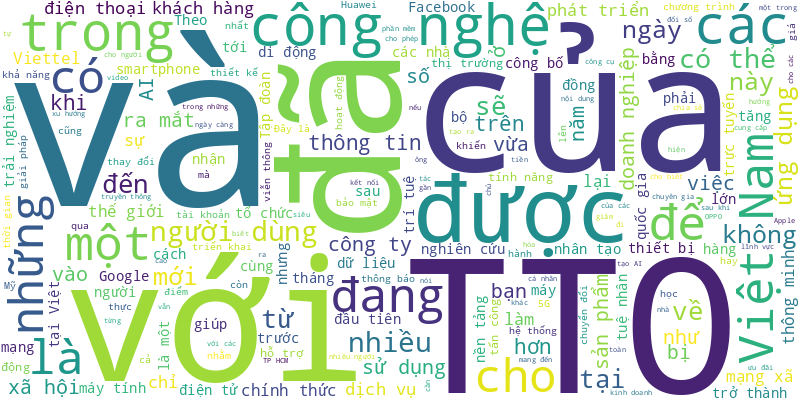
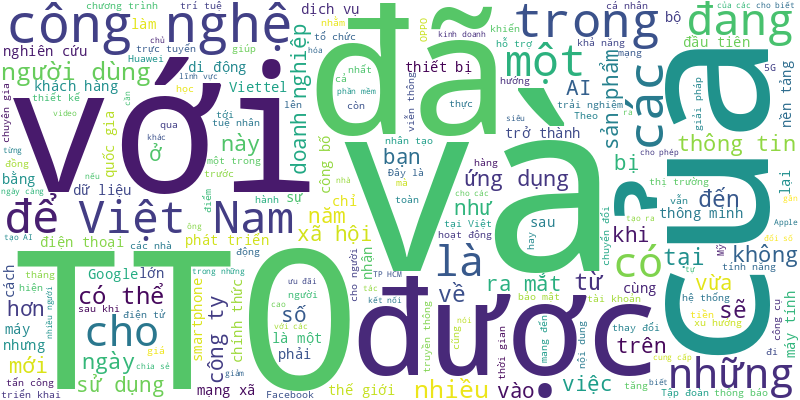
🍀 = 100%

diff --git a/README.md b/README.md
@@ -1,6 +1,22 @@
 # Tuoi Tre RSS 
 
 ## Giáo dục 
+- Tổng thống Trump cho rằng việc Đại học Harvard nhận sinh viên quốc tế là "mối đe dọa đối với nước Mỹ", và đã ký sắc lệnh siết chặt việc cấp visa cho du học sinh muốn theo học tại trường này.
+- Nhiều thí sinh chủ động lựa chọn những hướng đi khác trước kỳ thi tuyển sinh lớp 10 tại TP.HCM, nhằm giảm bớt áp lực cũng như tìm kiếm những cơ hội mới phù hợp với bản thân.
+- 2025 là năm đầu tiên học sinh lớp 9 sẽ thi tuyển sinh lớp 10 theo Chương trình giáo dục phổ thông 2018. Vì vậy cấu trúc và nội dung đề thi cũng sẽ thay đổi.
+- Năm nay, Học viện Báo chí và tuyên truyền, Trường đại học Luật (Đại học Quốc gia Hà Nội) chính thức bỏ xét khối C truyền thống (văn, sử, địa); Trường đại học Khoa học xã hội và Nhân văn giảm xét tổ hợp văn - sử - địa ở 17 ngành.
+- Trường đại học Quản lý và Công nghệ TP.HCM (UMT) sẽ đến với khán giả chương trình Khám phá trường học của báo Tuổi Trẻ lúc 19h ngày 5-6.
+- Sở Giáo dục và Đào tạo TP.HCM vừa công bố kế hoạch tổ chức kỳ thi Kỹ năng nghề cấp thành phố năm 2025, dự kiến diễn ra vào tháng 8 với 27 nghề được tổ chức thi.
+- Chương trình thạc sĩ Quản trị kinh doanh (MBA) do Đại học Lincoln (Hoa Kỳ) hợp tác với Trường đại học Công nghệ TP.HCM (HUTECH) triển khai là lựa chọn của nhiều người để nắm bắt cơ hội.
+- Chiều 4-6, đoàn 10 sinh viên xuất sắc nhất và thầy cô của khoa truyền thông sáng tạo Trường đại học Nguyễn Tất Thành đã đến thăm, tìm hiểu hoạt động và sự phát triển của văn phòng đại diện báo Tuổi Trẻ tại Hà Nội.
+- Đến 17h chiều nay 4-6, hầu hết các trường có chương trình đặc thù trên địa bàn TP.HCM sẽ công bố kết quả tuyển sinh lớp 1, lớp 6.
+- Một trường cao đẳng ở Trung Quốc bị chỉ trích sau khi phạt một giáo viên vì bắt đầu lớp học trễ một phút và một giáo viên khác vì kết thúc sớm hai phút, làm dấy lên tranh cãi về sự nhân văn trong môi trường giáo dục.
+- Khi đang lưu thông trên đường, một thầy giáo ở huyện Duy Xuyên, Quảng Nam đã bị người đàn ông lao vào hành hung, dùng gạch đập vào mũ bảo hiểm trên đầu, đấm đá túi bụi vào mặt.
+- Tối 3-6, trên mạng xã hội lan truyền thông tin sinh viên Đại học Bách khoa Hà Nội phản ánh bị đau bụng, nôn mửa sau bữa cơm quân sự buổi trưa 29-5, nghi ngộ độc thực phẩm.
+- Sau khi kết thúc môn thi ngữ văn vào lớp 10 sáng nay 4-6, nhiều thí sinh tại Bình Định chia sẻ đề thi năm nay rất mở, yêu cầu liên hệ đời sống cao, gần gũi nhưng khó đạt điểm tuyệt đối.
+- Sáng 4-6, sau mưa lớn, nhiều tuyến đường ở thành phố Bắc Giang ngập sâu, lực lượng cảnh sát giao thông đã dùng xe đặc chủng đưa nhiều thí sinh đến các điểm thi tuyển sinh vào lớp 10.
+- Một nam sinh đạp xe đi thi vào lớp 10 nhưng giữa đường xe hư. Các chiến sĩ cảnh sát giao thông nhìn thấy đã hỏi thăm và lấy xe chở em đi thi kịp giờ.
+- Trí tuệ nhân tạo đang làm thay đổi cách học tiếng Anh của sinh viên, với nhiều công cụ AI hỗ trợ cải thiện kỹ năng ngôn ngữ một cách hiệu quả và tiết kiệm.
 - Kỳ thi tuyển sinh vào lớp 10 công lập được xem là kỳ thi quan trọng đầu đời của những cô cậu học sinh 15 tuổi. Làm sao để tránh được những sự cố trong kỳ thi này?
 - Trong kỳ thi vào lớp 10 ở Hà Nội (từ ngày 6 đến 9-6), thời tiết thủ đô phổ biến ban ngày nắng, có hôm nắng nóng với nhiệt độ cao nhất 35 độ C.
 - Năm nay, Trường đại học Công nghệ, Đại học Quốc gia Hà Nội xét tuyển thêm 2 tổ hợp mới có môn tin học và dự kiến là năm cuối cùng tuyển sinh bằng tổ hợp D01 (toán, văn, tiếng Anh).
@@ -987,29 +1003,73 @@ Trường đại học Văn Lang được QS xếp hạng top 51-100 thế giớ
 - Sở Giáo dục và Đào tạo Hà Tĩnh đề nghị UBND tỉnh Hà Tĩnh cấp hơn 21,5 tỉ đồng để tổ chức ôn thi cho học sinh lớp 12.
 - Cháu bé được bố mẹ đưa đến gửi ở cơ sở giữ trẻ tại TP Hà Tĩnh, bất ngờ chạy ra đường, xe không thấy nên tông trúng và cuốn bé vào gầm xe.
 - Từ hôm nay 11-3, sinh viên ngành quan hệ công chúng Trường đại học Kinh tế - Tài chính TP.HCM (UEF) bắt đầu học về talkshow tại báo Tuổi Trẻ.
-- Có con sắp thi vào lớp 10, nhiều bố mẹ thú nhận 'mới chỉ biết láng máng' về chương trình học THPT hiện tại'.
-- Phó thủ tướng Lê Thành Long cơ bản thống nhất với đề xuất của Bộ Giáo dục và Đào tạo về dự thảo.
-- Đó là một trong những nội dung đáng chú ý trong dự thảo phương án tuyển sinh lớp 10 năm học 2025-2026 của TP.HCM.
-- Nhiều chính sách học bổng mới dành cho tân sinh viên với tổng giá trị lên đến 46 tỉ đồng được HUFLIT áp dụng trong kỳ tuyển sinh 2025.
-- Tỉnh Vĩnh Phúc ban hành quyết định thành lập 3 trường trung học công lập, trong đó có 1 trường thuộc Trường đại học Sư phạm Hà Nội 2.
-- Giáo viên đứng lớp với 40-50 đứa trẻ có cá tính khác biệt, thử hỏi những cái khó có dễ gì đong đếm được?
-- Năm 2025, nhiều trường đại học tổ chức kỳ thi đánh giá đầu vào đại học trên máy tính (V-SAT) với hàng chục đợt thi sắp diễn ra.
-- Ông Dương Thanh Bình đề nghị Bộ Giáo dục và Đào tạo kiểm tra, đánh giá việc triển khai thực hiện quy định về dạy thêm, học thêm để điều chỉnh nếu chưa phù hợp.
-- Hai khu đất tại quận Cái Răng được thông báo đấu giá nhiều lần nhưng không được quan tâm, buộc phải đưa ra khỏi danh sách đấu giá.
-- Trượt đại học kiến trúc, Linh ôn thi và đậu năm sau. Sau đó cô du học Anh và tốt nghiệp thủ khoa, tiếp tục giành học bổng thạc sĩ MIT (Mỹ).
-- Quy chế tuyển sinh đại học năm 2025 là chủ đề nóng được nhiều thí sinh và giáo viên quan tâm, đặt nhiều câu hỏi cho chuyên gia trong ngày hội tư vấn - tuyển sinh hướng nghiệp tại Cần Thơ ngày 9-3.
-- Một lớp học đặc biệt đã được tổ chức ngày 9-3 ở Hà Nội, thu hút hàng trăm học sinh và sinh viên mong muốn được "học nói" để thể hiện suy nghĩ một cách lành mạnh, phát triển bản thân.
-- Sở Tài chính Khánh Hòa vừa có ý kiến, nêu lý do không trình UBND bổ sung kinh phí để chi trả tiền hỗ trợ học tập hằng tháng suốt 3-4 năm qua.
-- Thiết bị này có thể cảnh báo tức thì các tuyến đường đang ngập, có 'ổ gà' nguy hiểm hay không... giúp giảm rủi ro cho người đi đường.
-- Tính đến Chủ nhật đỏ tại TP.HCM ngày 9-3, thầy Trương Thanh Tùng, giảng viên Trường đại học Văn Hiến đã hiến máu lần thứ 34 và khẳng định không dừng ở đó.
-- Từ năm 2025, các trường khối cao đẳng sẽ được đưa về quản lý chung của Bộ GD-ĐT, xét tuyển ra sao? Học ngành ngôn ngữ có 'lép vế' khi AI phát triển? Làm gì để tăng cơ hội đậu ngành y?
 ![Edu](Edu.png)
 ## Thời Sự 
+- Từ sáng nay 5-6, người dân TP.HCM bắt đầu có thể tham quan tự do các hoạt động trải nghiệm tại sự kiện 'Vinh quang Công an nhân dân Việt Nam' tại đại lộ Lê Lợi và phố đi bộ Nguyễn Huệ.
+- Những ngày qua, nhiều người dân vẫn còn thắc mắc những ai được miễn phí vé xe buýt ở TP.HCM, thủ tục cụ thể ra sao?
+- Tin tức đáng chú ý: Hôm nay Ủy ban Thường vụ Quốc hội xem xét đề án sáp nhập tỉnh; Dự kiến hoàn thành đường vành đai 4 TP.HCM cuối năm 2028; TP.HCM tăng cường giám sát dự án nhà ở...
+- Thực tế Tuổi Trẻ ghi nhận sau thời điểm quy định bắt buộc hộ kinh doanh có doanh thu từ 1 tỉ đồng/năm phải sử dụng hóa đơn điện tử.
+- GS Nguyễn Anh Trí đã bày tỏ mong muốn hiến tặng Công viên Di sản các nhà khoa học rộng hàng chục héc ta, với cả triệu tư liệu được thu thập cho đất nước.
+- Hôm nay 5-6, gió mùa tây nam ở Nam Bộ mạnh lên làm mưa gia tăng. Bắc Bộ mưa rào, Trung Bộ nắng nóng.
+- Rạng sáng 5-6, Thủ tướng Phạm Minh Chính và Phu nhân dẫn đầu đoàn đại biểu cấp cao Việt Nam rời Hà Nội, hướng đến điểm dừng chân đầu tiên là Estonia trong chuyến công tác tới ba nước châu Âu.
+- Tối 4-6, tại ga Sài Gòn (TP.HCM), gần 800 cán bộ, chiến sĩ của Quân khu 7, 250 chiến sĩ thuộc Quân đoàn 34 đã lên tàu ra Hà Nội tập luyện diễu binh, diễu hành kỷ niệm 80 năm Cách mạng Tháng Tám và Quốc khánh 2-9.
+- Làm việc với Ban Thường vụ Tỉnh ủy Kiên Giang và Thường trực Tỉnh ủy An Giang, Tổng Bí thư Tô Lâm nhấn mạnh hai tỉnh cần phối hợp chặt chẽ trong lãnh đạo, điều hành với tinh thần "một tỉnh - một tầm nhìn - một hành động - một niềm tin".
+- Chủ tịch UBND tỉnh Khánh Hòa nói lãnh đạo, cán bộ cấp xã mới sẽ là người đi vào lịch sử xây dựng, hình thành phát triển tỉnh Khánh Hòa mới.
+- Hiểu rõ những nguyên nhân dẫn tới già hóa dân số là yếu tố đầu tiên để xây dựng chính sách phù hợp.
+- Chủ tịch Trần Bá Dương khẳng định minh bạch tài chính, cam kết phát triển dài hạn, giữ nguyên chủ trương chưa niêm yết cổ phiếu và chính thức xác nhận đề xuất đầu tư dự án đường sắt tốc độ cao Bắc - Nam.
+- Đại tá Nguyễn Hồng Nhật, giám đốc Công an tỉnh Kon Tum, nghỉ công tác hưởng chế độ hưu trí. Đại tá Trần Thị Thu Phước, phó giám đốc, được giao phụ trách Công an tỉnh.
+- Theo Cục Hải quan, từ giữa tháng 12-2024 đến giữa tháng 5 năm nay, lực lượng hải quan đã chủ trì, phối hợp với các lực lượng chuyên trách phòng, chống tội phạm về ma túy thu giữ khoảng 1,9 tấn ma túy các loại.
+- Dự án trục Đông Tây (đường Võ Văn Kiệt) nối từ quốc lộ 1 đến tỉnh Long An có tổng chiều dài 14,6km.
+- Thường trực Ban Bí thư Trần Cẩm Tú yêu cầu trong phương án nhân sự thành phố Đà Nẵng mới sau hợp nhất Đà Nẵng và Quảng Nam.
+- Cổng dịch vụ công quốc gia sẽ chuyển hồ sơ đến trung tâm phục vụ hành chính công các cấp để tiếp nhận giải quyết thủ tục hành chính cho người dân, doanh nghiệp.
+- Người 'tố' Công ty C.P. nói mình chỉ nói lên sự thật, không phải mong được hỗ trợ và càng không phải vì cho thôi việc nên 'trả đũa'.
+- Mấy hôm nay một số người chia sẻ có những hàng quán trước giờ nhận chuyển khoản nay không cho chuyển khoản, buộc phải trả tiền mặt.
+- Sở Xây dựng TP.HCM vừa có tờ trình kiến nghị UBND TP.HCM chỉ đạo UBND TP Thủ Đức khẩn trương tổ chức cưỡng chế bàn giao quỹ bảo trì chung cư Saigon Gateway.
+- Các bác sĩ Bệnh viện Nhân dân 115 (TP.HCM) vừa điều trị thành công cho nam bệnh nhân bị tràn mủ màng ngoài tim, đây là ca bệnh hiếm gặp với tỉ lệ 1/18.000 ca.
+- UBND TP.HCM vừa có văn bản yêu cầu thủ trưởng sở ngành, quận huyện và TP Thủ Đức thực hiện phòng chống lãng phí trong đầu tư xây dựng, quản lý nhà nước thuộc tài sản công.
+- Ban Thường vụ Tỉnh ủy Quảng Nam quyết định tăng cường 34 cán bộ, công chức, viên chức cấp tỉnh về cấp xã (mới) giữ các chức vụ bí thư, phó bí thư, chủ tịch UBND. Trong đó có 5 tỉnh ủy viên.
+- Các thông tin kết hôn, ly hôn, tình trạng độc thân sẽ được cập nhật chính xác, kịp thời, đồng bộ trên hệ thống thông tin quốc gia.
+- Theo Ủy ban An toàn giao thông quốc gia, hành vi ném đất, đá, chất bẩn lên các đoàn tàu hỏa có chiều hướng tăng và diễn biến phức tạp.
+- Một tài xế đã bị nhân viên trạm thu phí mắng chửi và tát vào mặt, vì tài khoản thu phí tự động không đủ để qua trạm.
+- Nhân Ngày truyền thống Người cao tuổi Việt Nam, Thiếu tướng, Anh hùng Lực lượng vũ trang Mai Hoàng, phó giám đốc Công an TP.HCM, dẫn đầu đoàn công tác thăm và chúc thọ các cụ cao tuổi tiêu biểu tròn 90 tuổi tại TP Thủ Đức.
+- Những người nhập viện có triệu chứng ói, mửa, đau quặn bụng, sau khi ăn buffet ốc tại một quán ăn ở phường 7, TP Tuy Hòa.
+- Tới lịch hẹn trả kết quả làm thủ tục hành chính, người dân đến nơi thì lại 'chưa có kết quả', mệt mỏi và bức xúc vì tốn thời gian, công sức.
+- Dự án cải tạo, nâng cấp quốc lộ 28B nối Bình Thuận với Lâm Đồng nguy cơ lỗi hẹn trong năm 2025 khi chậm giao mặt bằng, mưa gió bất lợi, nhà thầu làm cầm chừng...
+- Hàng ngàn người dân tại TP.HCM tập trung ở trục đường Lê Lợi, quận 1 đã mãn nhãn với màn trình diễn của lực lượng cảnh vệ.
+- Theo thống kê thực hiện cao điểm truy quét hàng giả từ 15-5, cơ quan chức năng đã khởi tố 36 vụ, khởi tố 119 bị can liên quan hàng giả, buôn lậu và các tội danh khác tại 24 địa phương.
+- Mỗi xã, phường ở Cần Thơ tạm thời có 32 biên chế, không bao gồm khối đảng, đoàn thể và biên chế của ban chỉ huy quân sự xã.
+- 40 ban trù bị xã, phường mới sẽ đảm bảo các công tác thông suốt, an toàn, chuyển giao nhiệm vụ về các xã, phường mới từ ngày 1-7-2025.
+- Thứ trưởng Bộ Xây dựng cho biết cần đánh giá tác động khi bỏ giấy phép xây dựng, để có tổng kết đánh giá từ đó có lộ trình sửa đổi, cắt giảm.
+- Chủ tịch UBND TP.HCM yêu cầu Ban Giao thông phải kiên quyết chế tài theo hợp đồng đối với các nhà thầu yếu kém, đồng thời đẩy mạnh thi công để bù đắp tiến độ bị chậm trễ ở đường vành đai 3 TP.HCM.
+- Ông Y Thanh Hà Niê Kđăm được giao điều hành toàn bộ quá trình hợp nhất Lâm Đồng, Bình Thuận, Đắk Nông - hình thành tỉnh mới lớn nhất Việt Nam với diện tích hơn 24.000km².
+- Ngày 4-6, trao đổi với Tuổi Trẻ Online, lãnh đạo Chi cục Chăn nuôi, Thú y và Thủy sản tỉnh Bình Dương xác nhận tiến hành kiểm tra đột xuất các địa điểm kinh doanh của Công ty C.P Việt Nam trong địa bàn tỉnh.
+- Khi đang lưu thông trên đường, một thầy giáo ở huyện Duy Xuyên, Quảng Nam đã bị người đàn ông lao vào hành hung, dùng gạch đập vào mũ bảo hiểm trên đầu, đấm đá túi bụi vào mặt.
+- Một trận dông lốc đầu mùa mưa tại huyện U Minh, tỉnh Cà Mau đã làm sập và tốc mái 18 căn nhà, và chìm 2 tàu cá, một người được cứu vớt, một người mất tích.
+- Trong quá trình hồ Kẻ Gỗ điều tiết nước, một lượng cá lớn đã bị cuốn vào tua bin nhà máy thủy điện và bị chặt đứt ngang thân rồi trôi theo dòng nước về phía hạ du.
+- Ngày 4-6, thông tin từ cơ quan chức năng TP Cần Thơ cho biết đang điều tra, làm rõ vụ tai nạn giao thông khiến 2 người Ấn Độ thương vong.
+- Chuyến đi của Thủ tướng Phạm Minh Chính nhằm truyền tải thông điệp về một Việt Nam trách nhiệm với đại dương, đồng thời củng cố và mở ra giai đoạn phát triển mới, thực chất hơn nữa với ba nước.
+- Tại dự Luật Thuế tiêu thụ đặc biệt sửa đổi đưa ra phương án mới không thu thuế với điều hòa có công suất từ 24.000 BTU trở xuống và loại có công suất trên 90.000 BTU.
+- Ngày 4-6, Tòa án nhân dân tỉnh Kiên Giang mở phiên xét xử sơ thẩm và tuyên phạt Cao Xuân Hoàng (sinh năm 1988, trú huyện Diễn Châu, tỉnh Nghệ An) 17 năm tù về tội giết người.
+- Công an Hà Nội cho biết đã liên tiếp nhận được 2 tin báo cháy tại chung cư HH4A Linh Đàm (quận Hoàng Mai) và chung cư Eurowindow (huyện Đông Anh) vào sáng 4-6.
+- Ông Bùi Hoài Sơn, đại biểu hoạt động chuyên trách của Ủy ban Văn hóa và Xã hội, nêu rõ việc Quốc hội xem xét sửa Luật Quảng cáo, trong đó đưa ra các quy định siết hoạt động quảng cáo trên mạng xã hội là động thái rất cần thiết, kịp thời.
+- Sáng 4-6, đoàn đại biểu TP.HCM do Chủ tịch UBND TP.HCM Nguyễn Văn Được làm trưởng đoàn đã đến thăm, mừng thọ người cao tuổi tiêu biểu tròn 90 tuổi tại quận Tân Bình, nhân kỷ niệm Ngày Người cao tuổi Việt Nam (6-6).
+- Đôi vợ chồng nghèo bật khóc khi nhận lại hơn 20 triệu đồng đánh rơi ở Bệnh viện Đà Nẵng. Số tiền ấy họ được bà con lối xóm cho và tích góp bấy lâu.
+- Đây là cách hiệu quả giúp giảm kẹt xe cho nút giao An Phú (TP Thủ Đức).
+- Sau vụ ngai vàng triều Nguyễn khách tham quan bẻ gãy, Bảo tàng Cổ vật cung đình Huế đã tăng cường thêm lực lượng công an, kính cường lực bảo vệ tại khu vực trưng bày cổ vật, bảo vật quốc gia.
+- Trong lúc lực lượng chức năng làm nhiệm vụ giải quyết tai nạn, xe tải bất ngờ đâm vào phía sau ô tô CSGT khiến thượng úy Phan Văn Anh bị thương.
+- Các khối mây dông từ biển mở rộng về đất liền, dự báo thời tiết TP.HCM có mưa nhiều nơi từ đầu giờ chiều nay.
+- Bộ trưởng Nguyễn Văn Hùng nêu rõ việc đại biểu Quốc hội mặc áo có thương hiệu lên hội trường không phải hoạt động quảng cáo.
+- Ban Chỉ đạo phát triển hệ thống mạng lưới đường sắt đô thị TP.HCM vừa ban hành thông báo số 1 sau phiên họp đầu tiên.
+- Với các đề xuất, kiến nghị của các địa phương, doanh nghiệp, các bộ, ngành phải giải quyết và trả lời rõ ràng, không trả lời chung chung.
+- Theo quy định mới, Ủy ban Kiểm tra Trung ương có từ 23 - 25 ủy viên (có 2 - 3 ủy viên kiêm nhiệm), trong đó không quá 1/3 là ủy viên Trung ương Đảng.
+- Một vụ tai nạn xe khách va chạm với xe tải xảy ra tại tuyến đường tránh Huế khiến 1 người chết, 5 người bị thương.
+- Bộ Nông nghiệp và Môi trường yêu cầu xác minh và làm rõ việc cán bộ thú y đóng dấu kiểm dịch sai quy định đối với heo bệnh và xử lý trách nhiệm theo quy định.
 - 30 năm đòi đất, đã có bản án phúc thẩm nhưng quận Bình Tân vẫn không trả, hộ dân lại vất vả đi kiện tiếp.
 - Chủ nhiệm Ủy ban Công tác đại biểu Nguyễn Thanh Hải cũng cho biết mình từng mua táo đắt tiền ở cửa hàng song để mấy tháng không hỏng, ruồi nhặng không muốn bâu vào.
 - Trận mưa lớn vào rạng sáng 4-6 khiến nhiều tuyến đường ở trung tâm thành phố Bắc Giang ngập nặng, nhiều người dân phải lội nước, tìm đường vòng để kịp giờ đi làm.
 - Tại dự thảo nghị định quy định về xử lý kỷ luật cán bộ, công chức, viên chức, Bộ Nội vụ đã đề xuất bổ sung thêm các trường hợp được miễn trách nhiệm kỷ luật.
 - Bộ Nông nghiệp và Môi trường đã có công văn đề nghị Bộ Công an điều tra và xử lý thông tin lan truyền trên mạng xã hội về việc tố cáo Công ty cổ phần chăn nuôi C.P Việt Nam bán thịt heo bệnh.
+- Người dân mua nhà ở xã hội tòa T3, T4 của Công ty Đông Á bức xúc khi đặt tiền mua nhà ở xã hội hơn 2 năm nhưng đến nay vẫn chưa được nhận nhà, dù họ đã giao tiền hơn 70% cho chủ đầu tư.
 - Khởi công từ tháng 7-2023, dự án đường nối cao tốc Pháp Vân - Cầu Giẽ với vành đai 3 đến nay vẫn 'giậm chân tại chỗ'.
 - Công an tạm giữ người đàn ông dùng búa đập phá cửa kính tại 3 trụ ATM ngân hàng ở TP Tam Kỳ, Quảng Nam.
 - Đến nay số lượng dự án nhà ở xã hội đã hoàn thành, khởi công, xây dựng đạt 49% chỉ tiêu đặt ra tới năm 2025 trong đề án.
@@ -1945,68 +2005,9 @@ Trường đại học Văn Lang được QS xếp hạng top 51-100 thế giớ
 - Sở Xây dựng tỉnh Lâm Đồng đề nghị sớm cho chủ trương đầu tư hai bãi xe ở hai cửa ngõ TP Đà Lạt. Đây là yêu cầu cấp thiết nhằm giải quyết tình trạng kẹt xe, quá tải giao thông.
 - Để được cấp chứng chỉ hành nghề y mà không cần thực hành, 4 bác sĩ đã chi 200 - 300 triệu đồng mỗi người, Công an Đắk Lắk đã khởi tố 6 bị can, trong đó có 1 cựu công an.
 - Nếu thực hiện dự án theo hình thức công trình xây dựng khẩn cấp và áp dụng một số cơ chế đặc thù, sẽ cơ bản hoàn thành mở rộng cao tốc TP.HCM - Long Thành - Dầu Giây trong năm 2026.
-- Trước ngày 30-6, hơn 10 ban quản lý dự án xây dựng cấp huyện sẽ được hai ban quản lý dự án của tỉnh Quảng Ngãi tiếp nhận nguyên trạng, và tiếp tục thực hiện các công trình đang dang dở.
-- 144 thí sinh thi sát hạch giấy phép lái ô tô hạng B, C tại Tiền Giang. Đây là đợt sát hạch đầu tiên Công an Tiền Giang tổ chức, sau khi nhiệm vụ quản lý nhà nước về giấy phép lái xe được chuyển giao cho công an.
-- Sau 10 năm dừng, đoạn nối dài đường Võ Văn Kiệt (2,7km, ở TP.HCM) đang tái khởi động. Thay vì chỉ hoàn thiện phần dang dở, TP.HCM đề xuất kéo dài thêm 11,9km đến tỉnh Long An, tạo thành một trục giao thông xuyên suốt.
-- Khi chính quyền chỉ còn hai cấp thì hoạt động chính quyền số, công dân số sẽ được đẩy mạnh. Vậy cần chuẩn bị gì để từ ngày 1-7, người dân ngồi nhà vẫn làm được giấy tờ, thủ tục?
-- Đến chiều 17-5, lực lượng cứu hộ cứu nạn đã tìm thấy 5 thi thể bị vùi lấp, mất tích trong vụ sạt lở tại công trình thủy điện Tả Páo Hồ 1A (huyện Phong Thổ, Lai Châu).
-- Trên tuyến tỉnh lộ 676 vào các xã tại huyện Kon Plong (tỉnh Kon Tum), hàng ngàn cây gỗ lớn bị cưa hạ nằm la liệt dọc hai bên đường, nhường chỗ cho dự án mở đường.
-- Hội đồng tư vấn đặt tên công trình công cộng tỉnh Quảng Ngãi thống nhất đặt tên Hà Thuận cho dự án cầu Trà Khúc 3. Nay Sở Tư pháp cho rằng không có trong ngân hàng tên đường và công trình công cộng. Thế là phải bàn tiếp.
-- Các khu công nghiệp sinh thái quy mô lớn, khu công nghệ thông tin đầu tiên của Bình Dương được khởi động, mở ra định hướng mới về thu hút đầu tư trước thềm sáp nhập với TP.HCM.
-- Với đa số tán thành, Quốc hội đã biểu quyết thông qua việc đồng ý chi hàng chục ngàn tỉ đồng cho cán bộ, công chức nghỉ việc sau tinh gọn bộ máy, miễn học phí.
-- Sáng 17-5, Quốc hội thông qua nghị quyết một số cơ chế chính sách đặc biệt tạo đột phá trong xây dựng và tổ chức thi hành pháp luật, với 416/443 đại biểu có mặt tán thành.
-- Đại biểu Trần Khánh Thu đề nghị cấm quảng cáo quá mức về công dụng thực phẩm và những tuyên bố như 'chữa bệnh', 'giảm cân cấp tốc' phải bị quản lý nghiêm ngặt.
-- Phó chủ tịch UBND tỉnh Hà Tĩnh đã chỉ đạo khẩn trương làm rõ liên quan vụ xi măng để làm đường nông thôn tập kết ngoài trời bị hư hỏng.
-- Với 429/434 đại biểu có mặt tham gia biểu quyết tán thành, Quốc hội đã thông qua nghị quyết về một số cơ chế, chính sách đặc biệt phát triển kinh tế tư nhân.
-- Hơn một năm trước, tàu kéo sà lan chở đá từ đất liền ra Lý Sơn bị chìm khiến 4 người chết, 5 người mất tích. Công an đã khởi tố vụ án, nhưng đến nay tàu kéo vẫn chưa được trục vớt để điều tra.
-- Sau một tháng, Chủ tịch UBND TP.HCM Nguyễn Văn Được tiếp tục làm việc với Tập đoàn Vingroup để cập nhật tiến độ các đề án chuyển đổi xanh, tháo gỡ những khó khăn, vướng mắc trong quá trình thực hiện.
-- Huyện Bình Chánh khẳng định mặt bằng dự án quốc lộ 50 đã bàn giao đầy đủ cho Ban Giao thông TP.HCM từ tháng 4. Thế nhưng nhiều đoạn vẫn chưa xây dựng, có chỗ bị tái lấn chiếm và địa phương đã giải quyết xong.
-- Bộ Công an lập chuyên án, đấu tranh quyết liệt, xử lý nghiêm các hành vi phạm tội, làm rõ trách nhiệm  bộ, ngành, địa phương có liên quan để xảy ra sai phạm liên quan hàng giả, hàng nhái và gian lận thương mại.
-- Quốc hội tổ chức lấy ý kiến nhân dân, các ngành, các cấp về dự thảo nghị quyết sửa đổi, bổ sung một số điều của Hiến pháp nước Cộng hòa xã hội chủ nghĩa Việt Nam năm 2013 từ ngày 6-5 đến 5-6-2025.
-- Liên quan đến vụ sạt lở ở công trình thủy điện Tả Páo Hồ 1A (huyện Phong Thổ, tỉnh Lai Châu) làm 5 người mất tích, sáng 17-5 lực lượng cứu hộ, cứu nạn đã tìm thấy thi thể 3 nạn nhân.
-- Đường Tân An - Bình Hiệp dự kiến được mở mới theo hướng quốc lộ 62 hiện hữu, với quy mô khi hoàn chỉnh từ 8-10 làn xe.
-- Người dân cần phải nắm vững tên cơ quan, tỉnh thành... sáp nhập, tinh gọn để có thể chọn đúng tài khoản chính chủ, thuận lợi hơn cho giao dịch trên mạng.
-- Tại dự luật trình Quốc hội sửa 7 luật về lĩnh vực đầu tư, tài chính, ngân sách, Chính phủ đã đề xuất mở rộng chỉ định thầu, tăng các ưu đãi đầu tư, thuế.
-- Từ 1-7, Luật Bảo hiểm xã hội 2024 quy định rõ việc tạm dừng, chấm dứt hưởng lương hưu và trợ cấp bảo hiểm xã hội hằng tháng đối với 3 nhóm.
-- Việc bổ sung 44.000 tỉ đồng chi trả chế độ cho cán bộ, công chức sau tinh gọn bộ máy dự kiến được Quốc hội bàn và thông qua nghị quyết trong sáng nay 17-5.
-- Sau khi được cấp cứu, sức khỏe 4 người bị thương trong vụ sạt lở ở thủy điện Tả Páo Hồ 1A (xã Sì Lở Lầu, huyện Phong Thổ, tỉnh Lai Châu) đã tạm ổn định.
-- Ông Lương Minh Phúc - giám đốc Ban Quản lý dự án đầu tư xây dựng các công trình giao thông TP.HCM (chủ đầu tư) - đã cam kết như vậy trong cuộc trả lời phỏng vấn Tuổi Trẻ.
-- Mua bán bùa yêu là 'mỏ vàng' cho những kẻ trục lợi tâm lý yếu đuối, tổn thương tình cảm, lo âu hôn nhân.
-- Hôm nay 17-5, thời tiết Bắc Bộ mưa rào đến mưa rất to, cần chú ý lũ quét, sạt lở. Nam Bộ mưa rào chiều tối.
-- Ngày 16-5-1955, tròn 70 năm trước, biển trời Quy Nhơn xanh ngắt đưa chân con tàu cuối cùng rẽ sóng tiễn những người con thân yêu của Liên khu V lên đường tập kết ra Bắc.
-- Chủ tịch UBND xã bị tạm đình chỉ công tác 15 ngày để làm rõ trách nhiệm liên quan đến việc xi măng từ nguồn hỗ trợ xây dựng nông thôn mới bị hư hỏng.
-- Khánh Hòa bác phương án chuyển đổi các ký túc xá sinh viên thành nhà công vụ và xin bố trí 70 phòng của nhà khách T78 cho cán tại Ninh Thuận ở khi sáp nhập.
-- Tối 16-5, Thủ tướng có công điện gửi yêu cầu tập trung khắc phục hậu quả sự cố sạt lở tại công trường thi công công trình thủy điện Tả Páo Hồ 1A.
-- Bộ trưởng Bộ Giáo dục và Đào tạo Nguyễn Kim Sơn cho rằng trường học ngay ngắn, dạy học lành mạnh là phải ngăn chặn việc ép học sinh học thêm.
-- Dự thảo Luật Báo chí sửa đổi đề xuất nghiêm cấm trang thông tin điện tử tổng hợp, mạng xã hội tự sản xuất và phát tin, bài như cơ quan báo chí.
-- Dự kiến sẽ miễn thuế thu nhập doanh nghiệp cho doanh nghiệp nhỏ và vừa trong 3 năm kể từ ngày được cấp giấy chứng nhận đăng ký doanh nghiệp lần đầu.
-- Chiều 16-5 tại trụ sở Trung ương Đảng, Tổng Bí thư Tô Lâm đã tiếp Thủ tướng Thái Lan, lãnh đạo Đảng Vì nước Thái (Pheu Thai) Paetongtarn Shinawatra.
-- Có thời điểm tưởng chừng phải dừng khai thác, nhưng hơn hai thập kỷ, dự án mỏ Đại Hùng pha 3 đã trở thành công trình biểu tượng ngành dầu khí.
-- Nhiều trường công lập ở Quảng Bình phản ứng vì bị tính thuế giá trị gia tăng đến 2 lần cho mỗi bữa ăn bán trú của học sinh. Cơ quan thuế cũng đã lên tiếng.
-- PJICO - hãng bảo hiểm top đầu khối phi nhân thọ, xem việc bán bảo hiểm xe cơ giới là 'nghiệp vụ xương sống', vừa có sự thay đổi lớn trong dàn nhân sự cấp cao.
-- Bộ Chỉ huy Bộ đội biên phòng tỉnh Bình Thuận vừa tổ chức khánh thành công trình tôn tạo Điểm cơ sở A6.
-- Những ngày qua trên mạng xã hội TikTok xuất hiện đoạn video với nội dung bắt khẩn cấp một cán bộ cấp cao có liên quan đến vụ án người đàn ông dùng súng tự chế bắn người khác rồi tự sát xảy ra tại xã Vĩnh Xuân, huyện Trà Ôn.
-- Người đàn ông có biểu hiện tâm lý bất ổn, không mặc quần áo leo lên cần cẩu công trình cao hàng chục mét ở Bình Dương.
-- Đó là vấn đề Phó thủ tướng Trần Hồng Hà nêu ra tại hội nghị trực tuyến toàn quốc sơ kết công tác bảo đảm trật tự, an toàn giao thông quý 1 diễn ra chiều 16-5.
-- TP.HCM đang tính toán tổ chức thêm luồng giao thông kết nối trực tiếp vào nhà ga T3, giải quyết kẹt xe khu vực Cộng Hòa - Trường Chinh.
-- UBND huyện Hương Khê (Hà Tĩnh) đang chỉ đạo phòng ban và UBND xã Lộc Yên kiểm tra, làm rõ hàng trăm tấn xi măng bỏ ngoài trời nhiều tháng qua đã hư hỏng, gây lãng phí tài sản.
-- Tòa nhà Hàm cá mập sẽ được quận Hoàn Kiếm tiến hành phá dỡ vào tháng 5-2025 để cải tạo quảng trường Đông Kinh - Nghĩa Thục.
-- TP.HCM bước vào mùa mưa, nhiều người dân TP Thủ Đức lại thấp thỏm nỗi lo ngập. Thống kê mới nhất từ UBND TP Thủ Đức cho thấy có đến 24 điểm ngập, nhiều khu vực người dân chỉ cần nghe “có mưa” là chuẩn bị đồ che chắn.
-- Liên quan vụ suối Bà Lúa ở trung tâm TP Biên Hòa nổi bọt trắng xóa bất thường, cơ quan chức năng Đồng Nai đã vào cuộc xác minh.
-- Thiếu tướng Nguyễn Thị Xuân đề xuất tăng mức phạt tiền tối đa vi phạm giao thông đường bộ, đường sắt, đường thủy lên tới 200 triệu đồng.
-- Thay vì lên cầu vượt ra đường Trường Chinh, nhiều người đi xe máy chạy 'lố' vào đường 18E (lối vào nhà ga T3), sau đó chạy vào đường cấm rồi rẽ trái.
-- Lãnh đạo UBND tỉnh Lai Châu cho biết có 5 người mất tích, 4 người bị thương sau vụ sạt lở ở khu vực công trình thủy điện Tả Páo Hồ 1A (huyện Phong Thổ).
-- Sau khi khảo sát, kiểm tra vết sụt lún trên nút giao Ngọc Hội (TP Nha Trang, Khánh Hòa), cơ quan chức năng xác định nguyên nhân là do đổ tràn dầu mỡ.
-- Phó chủ tịch HĐND huyện Phú Tân, tỉnh Cà Mau xác nhận có tổ chức đoàn đại biểu HĐND huyện đi học hỏi kinh nghiệm về phát triển du lịch tâm linh tại Côn Đảo.
-- Ông Nguyễn Hoàng Giang - chủ tịch UBND tỉnh Quảng Ngãi - có văn bản yêu cầu tạm dừng tổ chức các đoàn đi tham quan, học tập kinh nghiệm trong giai đoạn này, tập trung lo công tác sắp xếp bộ máy.
-- Hai sinh viên tại TP.HCM đến bệnh viện cấp cứu trong tình trạng nguy kịch với nhiều vết thương do bị dao đâm khắp người.
-- Chiều 16-5, thêm một trận động đất mạnh 4 độ (độ lớn M) xảy ra ở huyện Mường Chà, tỉnh Điện Biên. Hiện Viện Các khoa học Trái đất vẫn đang tiếp tục theo dõi trận động đất này.
-- Cụ bà đến bệnh viện thăm khám, khi chụp CT thì các bác sĩ bất ngờ phát hiện có một cành tro dài 20cm nằm trong lồng ngực cụ bà suốt hai năm qua.
-- Dự án đường nối cảng tổng hợp Cà Ná và quốc lộ 1 với cao tốc Cam Lâm - Vĩnh Hảo “bí” đường dẫn vào cao tốc.
-- Ông Nguyễn Sĩ Khoa được biết đến là một "đại gia" của ngành gỗ ở Quảng Nam và Đà Nẵng.
-- Vỉa hè đường nối Trần Quốc Hoàn - Cộng Hòa (TP.HCM) từng bị lún sau khi điện lực đào lên thi công, đến 16-5 đã được khắc phục xong.
 ![New](News.png)
 ## Nhịp sống số 
+- Mỗi cú nhấp chuột đều để lại 'dấu vết số' có thể xây dựng hình ảnh bạn, hoặc phá hủy danh tiếng. Làm sao để bảo vệ quyền riêng tư và kiểm soát dấu vết số hiệu quả?
 - Một thế hệ AI mới đang dần định hình lại cách con người làm việc, quyết định và sáng tạo. Không còn đơn thuần là những 'cỗ máy phản hồi', Agentic AI là dạng trí tuệ nhân tạo có khả năng hành động độc lập.
 - Sóng 5G đang len lỏi trong cuộc sống hằng ngày của chúng ta. Nhưng liệu thứ kết nối siêu tốc này có mang theo rủi ro vô hình cho sức khỏe con người?
 - Filter ảo trên mạng xã hội đang dần trở thành chiếc mặt nạ vô hình, tạo áp lực lên hình ảnh bản thân và tâm lý của giới trẻ. Giới trẻ Việt có đang mắc kẹt trong thế giới filter ảo?
@@ -3006,5 +3007,4 @@ Trường đại học Văn Lang được QS xếp hạng top 51-100 thế giớ
 - TTO - Mạng chia sẻ video trực tuyến YouTube sẽ bổ sung thêm tính năng cho phép các nhà sáng tạo nội dung có hơn 100.000 người theo dõi có thể thu phí thành viên.
 - TTO - Giờ đây, người dùng đã có thể hạn chế hiển thị các quảng cáo trực tuyến mà bạn không muốn thấy trên tất cả các dịch vụ của Google, cả YouTube lẫn Gmail.
 - TTO - Sân bay ở Amsterdam (Hà Lan) giờ đã có một máy ATM bitcoin, cho phép mọi người chuyển “đồng euro địa phương” thành “các loại tiền điện tử quốc tế”.
-- TTO - Người Mỹ tin rằng có tới 65% tin tức trên mạng xã hội là ngụy tạo hoặc không thể xác minh đúng, sai, trong khi tỉ lệ này trên báo chí và truyền hình theo họ là 39%.
 ![life](Life.png)
